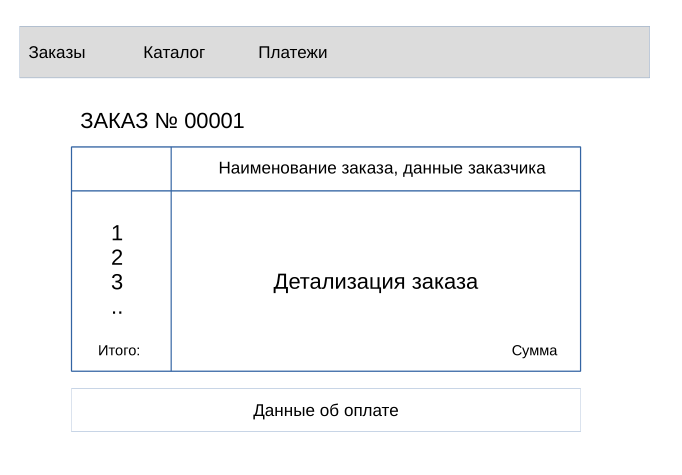
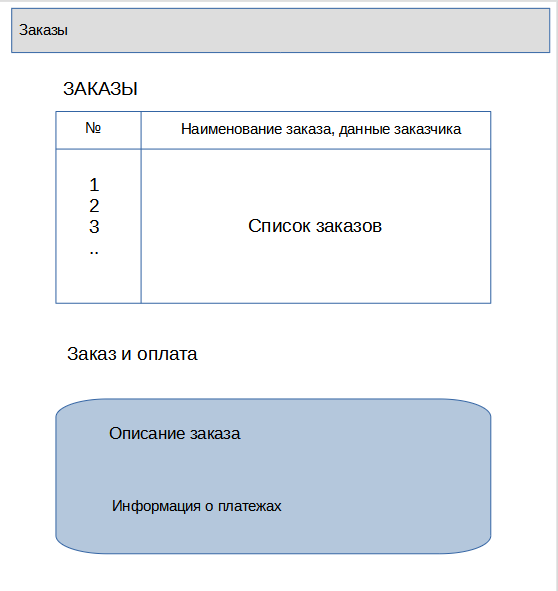
M3l11 Docs and docker

diff --git a/docs/03-architecture/01-api.md b/docs/03-architecture/01-api.md
@@ -1,73 +1,40 @@
 # API
 
 #### 1. Сущности
-**Заказ (ORDER)**
-
-| Поле       | Бизнес-описание             | Пример значения   |
-|------------|-----------------------------|-------------------|
-| orderId    | Номер заказа                | 00001             |
-| title      | Наименование заказа         | Kia Rio E355AA150 |
-| orderDate  | Дата заказа                 | 20.01.2025        |
-| owner      | ФИО заказчика               | Василий Иванов    |
-| contacts   | Контактные данные заказчика | 7-909-999-00-00   |
-| amount     | Сумма заказа                | 10000             |
-
-
-**Состав заказа (ORDER_DETAILS)**
-
-| Поле     | Бизнес-описание             | Пример значения   |
-|----------|-----------------------------|-------------------|
-| orderId  | Ссылка на заказ             | 00001             |
-| detail   | Наименование позиции/услуги | покраска бампера  |
-| price    | Стоимость                   | 10000             |
-
 
 **Оплата заказа (PAYMENTS)**
 
-| Поле       | Бизнес-описание           | Пример значения   |
-|------------|---------------------------|-------------------|
-| orderId    | Ссылка на заказ           | 00001             |
-| paymentId  | Идентификатор платежа     | 1234556789011     |
-| payment    | Оплата                    | 10000             |
-| payDate    | Дата платежа              | 21.01.2025        |
+| Поле       | Бизнес-описание             | Пример значения                   |
+|------------|-----------------------------|-----------------------------------|
+| orderId    | Номер заказа                | 00001                             |
+| title      | Описание заказа             | Kia Rio E355AA150, замена бампера |
+| orderDate  | Дата заказа                 | 20.01.2025                        |
+| owner      | ФИО заказчика               | Василий Иванов                    |
+| contacts   | Контактные данные заказчика | 7-909-999-00-00                   |
+| amount     | Сумма заказа                | 10000                             |
+| paymentId  | Идентификатор платежа       | 1234556789011                     |
+| payment    | Оплата                      | 10000                             |
+| payDate    | Дата платежа                | 21.01.2025                        |
 
 #### 2. Бизнес-функции (методы)
-**CRUDS для заказов с детализацией**
-1. **`order.create`** - Создание нового заказа
-   - *Бизнес-правило*: Только авторизованные пользователи могут создавать заказ
-   - *Ограничения*: Минимум 3 символа в заголовке
-
-2. **`order.update`** - Обновление существующего заказа или детализации
-   - *Бизнес-правило*: Только авторизованные пользователи могут изменять заказ
-
-3. **`order.read`** - Получение информации о заказе с детализацией
-   - *Бизнес-правило*: Только для авторизованных пользователей
-
-4. **`order.search`** - Поиск заказов
-   - *Бизнес-логика*: Возвращает заказы с пагинацией
-   - *Фильтры*: По номеру заказа, наименованию заказа, ФИО заказчика, контактам заказчика, сумме, наименованию позиции в заказе
    
 **CRUDS для платежей**
-1. **`payment.create`** - Ввод/загрузка платежа
-   - *Бизнес-правило*: Только авторизованные пользователи могут загружать/вводить платежи
+1. **`payment.create`** - Ввод/загрузка заказа и платежей
+   - *Бизнес-правило*: Только авторизованные пользователи могут загружать/вводить данные
    - *Ограничения*: Сумма > 0
 
-2. **`payment.read`** - Получение информации об оплате заказа
+2. **`payment.read`** - Получение информации о заказе и оплатах
    - *Бизнес-правило*: Только для авторизованных пользователей
 
-3. **`payment.search`** - Поиск платежей
+3. **`payment.search`** - Поиск заказов и платежей
    - *Бизнес-логика*: Возвращает платежи с пагинацией
-   - *Фильтры*: По номеру заказа, дате платежа, сумме платежа
+   - *Фильтры*: По номеру заказа, дате заказа, контактам заказчика, дате платежа, сумме платежа
 
 
 #### 3. Бизнес-правила
 1. **Валидация платежей**:
    - Только авторизованные пользователи могут загружать/вводить платежи
    - Сумма платежей по заказу должна быть не больше суммы заказа
-
-2. **Валидация позиций/услуг в заказе**:
-   - Допустимы только значения из каталога
-   - Новые значения добавляются в каталог авторизованными пользователями
 
 #### 4. Бизнес-метрики успеха
 1. **Скорость поиска данных о заказах и платежах**: 95% запросов должны возвращать результаты < 2 сек

diff --git a/README.md b/README.md
@@ -1,7 +1,7 @@
 # otkotlin-prj Система учета оплаты
 
 Система учета оплаты -- это программа, в которой ведется информация о заказе/услугах, сроках выполнения и оплате.
-Задача программы -- предоставлять информацию о ходе выполнения заказа/услуг/работы, о поступающих платежах и наличию задолженностей.
+Задача программы -- предоставлять информацию о поступающих платежах и наличию задолженностей по заказу.
 
 Пример применения -- автосервис. На начальном этапе формируется заказ с перечнем работ (кузовные работы, покраска деталей), по мере выполнения работу могут вноситься корректировки по срокам и стоимости деталей и материалов. Конечный результат -- сформированный счет на оплату, с учетом возможных предоплат.
 

diff --git a/docs/02-analysis/01-functional-requiremens.md b/docs/02-analysis/01-functional-requiremens.md
@@ -1,7 +1,5 @@
 ### Функциональные требования
 
-- Возможность загрузки или ввода списка услуг/работ
-- Возможность указания стоимости каждой услуги/работы
 - Возможность вводить/загружать информацию об оплате (дата, сумма, метод оплаты)
 - Программа должна позволять отслеживать статус оплаты (оплачено/неоплачено)
 - Программа должна автоматически определять и отображать список неоплаченных услуг

diff --git a/docs/02-analysis/02-nonfunctional-requirements.md b/docs/02-analysis/02-nonfunctional-requirements.md
@@ -1,6 +1,5 @@
 ### Нефункциональные требования
 
-- Время отклика программы должно составлять не более 2 секунд при отображении списка услуг
 - Время отклика программы должно составлять не более 3 секунд при отображении информации о платежах/задолженностях
 - Доступность 99% в рабочее время (Пн–Пт, 8:00–20:00 по МСК)
 - Масштабируемость под нагрузкой ( +50% к средним показателям без деградации)
